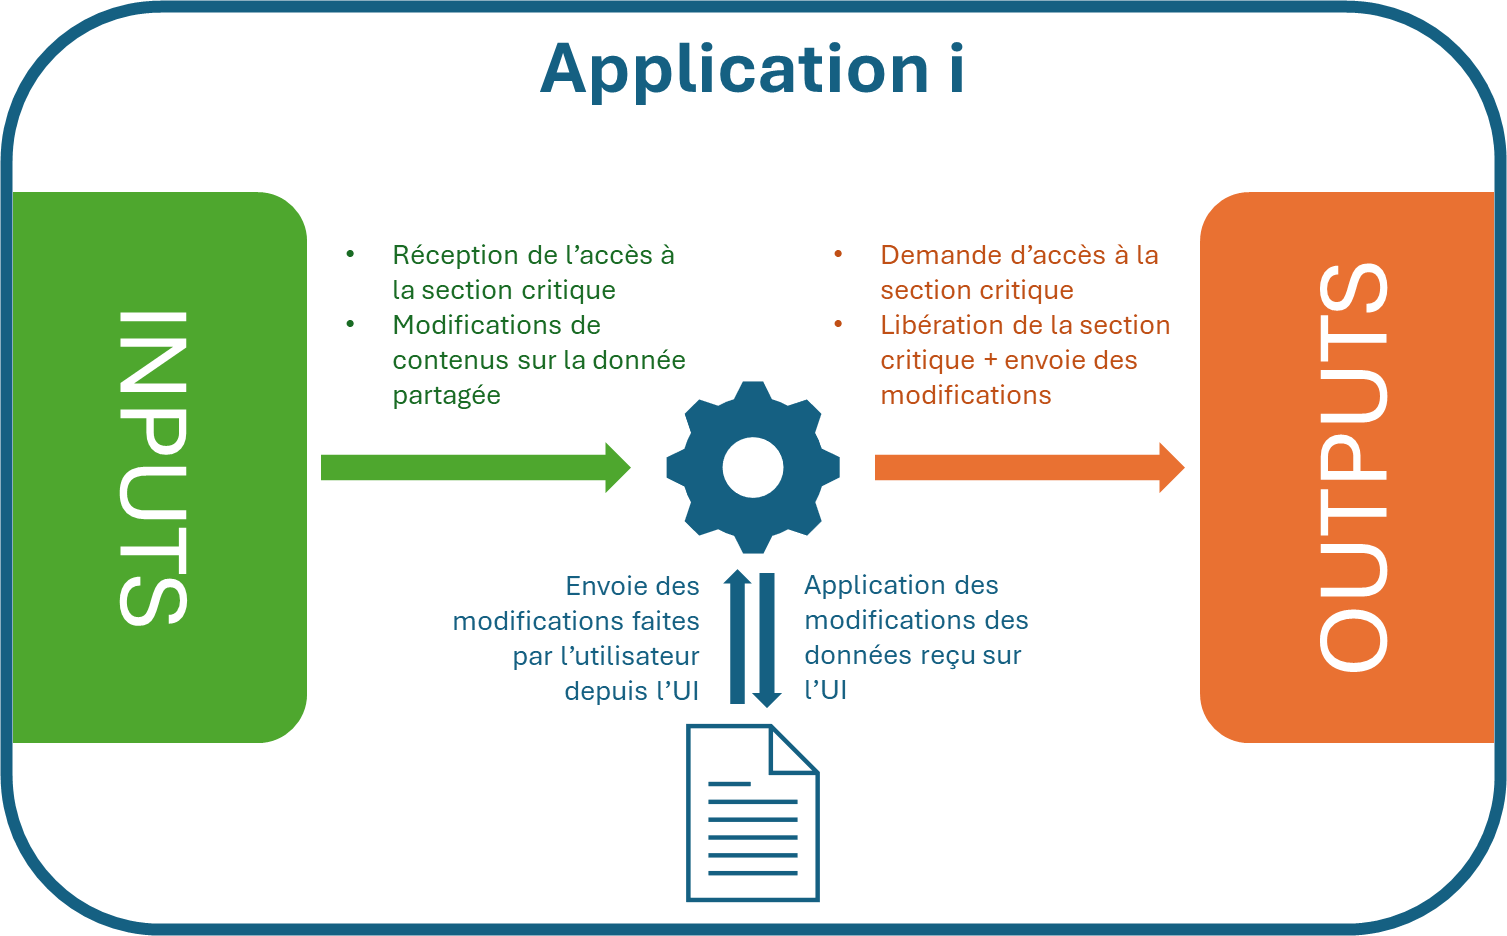
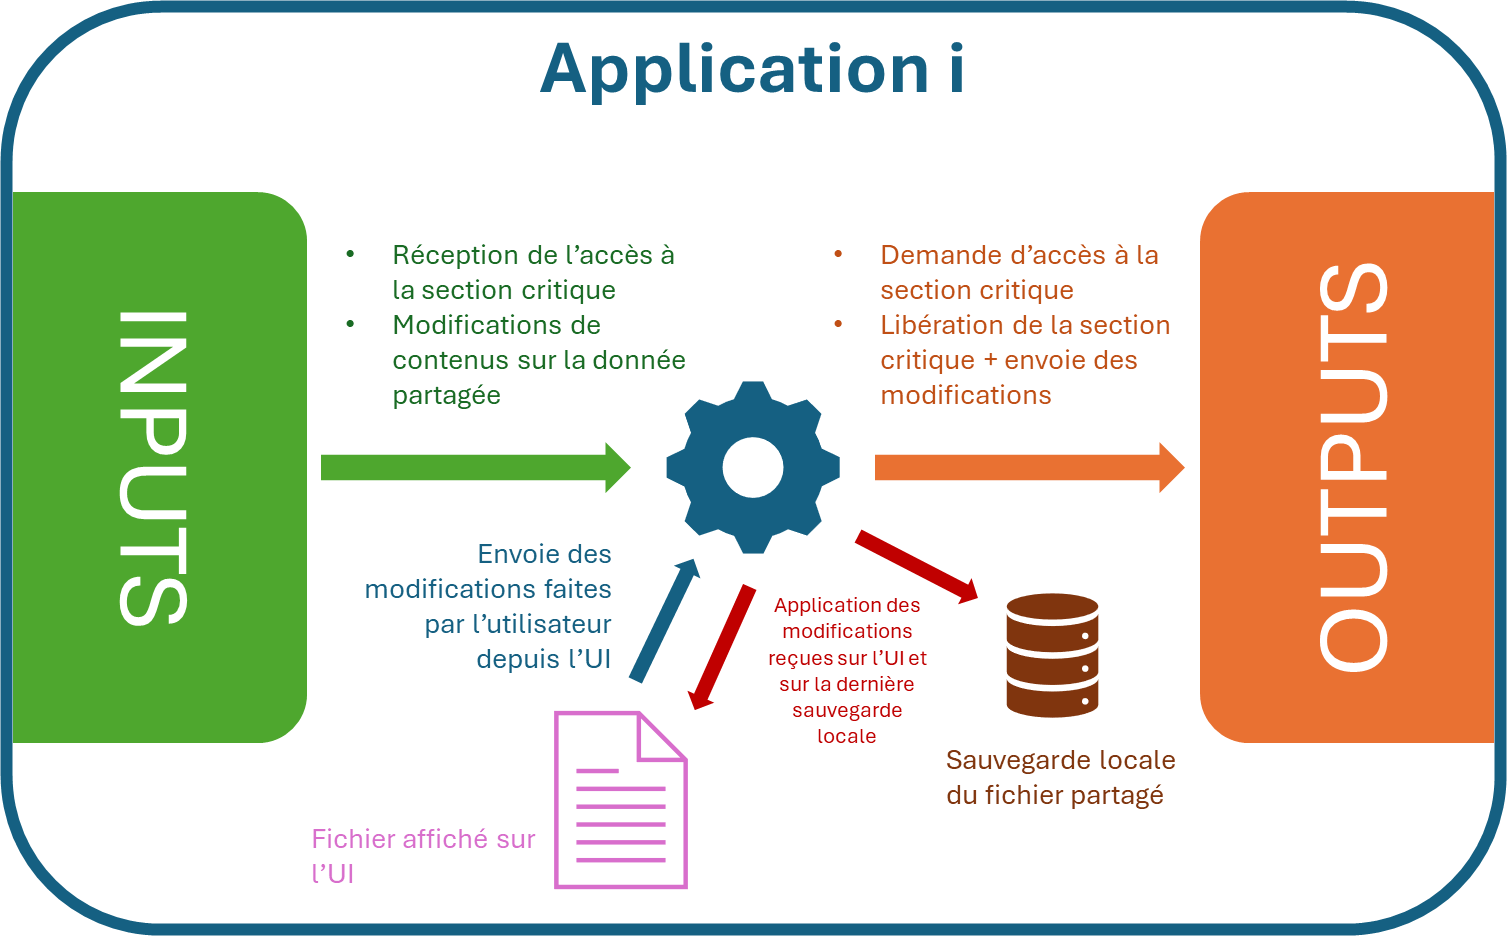
update readme

Changed region(s): [[0.2183, 0.5577, 0.7485, 0.9915], [0.6238, 0.8056, 0.7797, 0.8675]]

diff --git a/README.md b/README.md
@@ -8,7 +8,7 @@ Projet réalisé par :
 
 ## Description du projet
 
-Ce projet a pour but de créer une application distribuée permettant de traiter un fichier texte de manière décentralisée. Cette application comporte des sites reliés en réseau (anneau) entre eux afin de se partager les modifications du fichier texte. L'implémentation de l'algorthme de la file d'attente répartie permet de gérer la concordance entre les différents sites.
+Ce projet a pour but de créer une application distribuée permettant de traiter un fichier texte de manière décentralisée. Cette application comporte des sites reliés en réseau (anneau) entre eux afin de se partager les modifications du fichier texte. L'implémentation de l'algorithme de la file d'attente répartie permet de gérer la concordance entre les différents sites.
 
 ## Exécution
 
@@ -29,14 +29,33 @@ Pour exécuter le projet avec des paramètres spécifiques, il faut exécuter le
 L'architecture de l'application est divisée en plusieurs couches :
 - Couche applicative
 - Couche de contrôle
-- Couche d'initialisation
 
-Schéma de l'architecture :
+Cette organisation permet de bien diviser et distinguer les fonctionnalités applicatives des fonctionnalités de contrôle. En effet, ces deux couches constituent 2 programme Go distincts qui intéragissent entre eux via leurs entrées/sorties standards.
 
+Pour lancer l'application en réseau, le script `run.sh` permet de créer un anneau de taille `N` en définissant correctement les paramètres des sites ainsi que la liaison des entrées/sorties.
 
 
 ### Couche applicative
+
+La couche applicative implémente une exclusion mutuelle pour distinguer les actions d'écriture et de lecture sur son entrée et sa sortie. Elle conserve un réplicat local de la donnée partagée qui est un fichier `.log` conservant l'historique des modifications permettant de reconstruire le fichier global partagé. 
+
+Deux versions existent alors : 
+* La version **debug** qui n'essaie jamais de modifier la donnée partagée et qui attend simplement le clic sur le bouton save pour demander l'accès à la section critique à son contrôleur.
+* La version **classique** qui essaie de modifier la donnée partagée en demandant l'accès à la section critique dès qu'il y a eu une modification et que le délais s'est écoulé.
+
+Quand l'application demande l'accès à la section critique, l'utilisateur peut toujours continuer ses modifications et la partie visuelle n'est pas stockée localement dans un fichier. 
+A la réception de l'accès à la section critique, l'application modifie son fichier local de log avec ses modifications en cours et envoie le contenu de la mise à jour à son contrôleur tout en libérant la section critique.
+Si l'application reçoit, du contrôleur, une ou plusieurs modifications du contenu de la donnée partagée, les modifications sont appliquées sur la copie locale du fichier partagé à partir de la dernière version à jour. De plus, l'UI qui affiche le texte à l'utilisateur est mise à jour en appliquant directement les modifications de la version reçu sur la vertion affichée (même si la version affiché ne correspond pas à la version locale sauvegardée qui elle correspond à la version sauvegardé localement par tous les sites).
+
+Voici un résumé de l'architecture d'une instance de l'application : 
 ![Schéma de la logique de l'application](doc/schema_application.png)
+
+D'autres messages peuvent aussi être envoyé/reçu par l'application :
+* Message de réception de l'indication d'une fermeture de l'application : si l'utilisateur ferme une des fenêtre ouverte, il faut toutes les fermer pour éviter des soucis de commmunication. Ce message, une fois reçu, entraîne la fermeture de la fenêtre Fyne.
+* Message de réception de modification du texte local pour l'initialisation : lors de l'initialisation, si des sites avaient des fichiers sauvegardés différents, celui qui a le plus de lignes est retenu et son contenu est envoyé à tous les sites. A la réception de ce message l'application du site doit modifier son texte affiché ainsi que celui sauvegardé localement pour garantir la synchronisation globale entre les sites.
+* Messsage d'envoie du nombre de ligne et du contenu : servent pour les mêmes raisons que le point précédent pour transmettre l'information au contrôleur
+* Message d'envoie d'une demand de coupe au contrôleur pour initier la sauvegarde répartie datée
+
 
 ### Couche de contrôle
 
